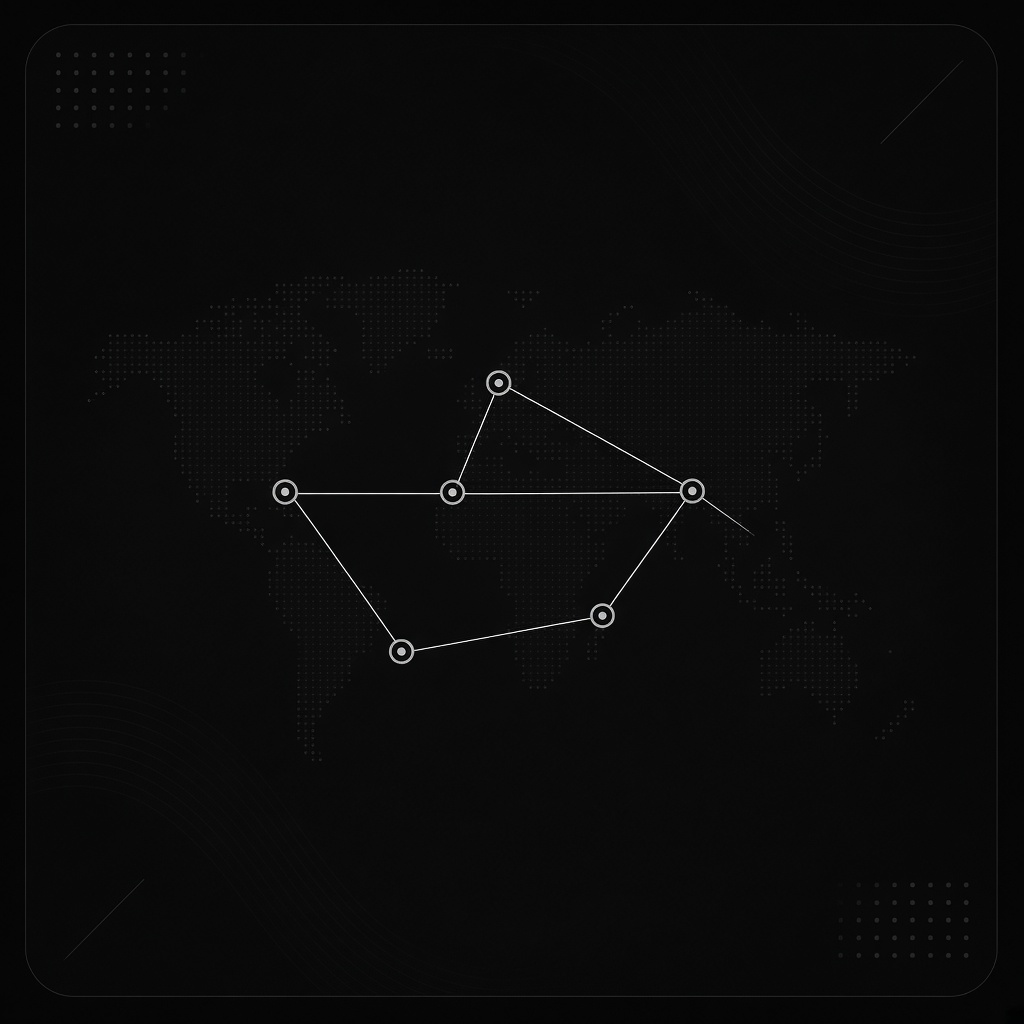
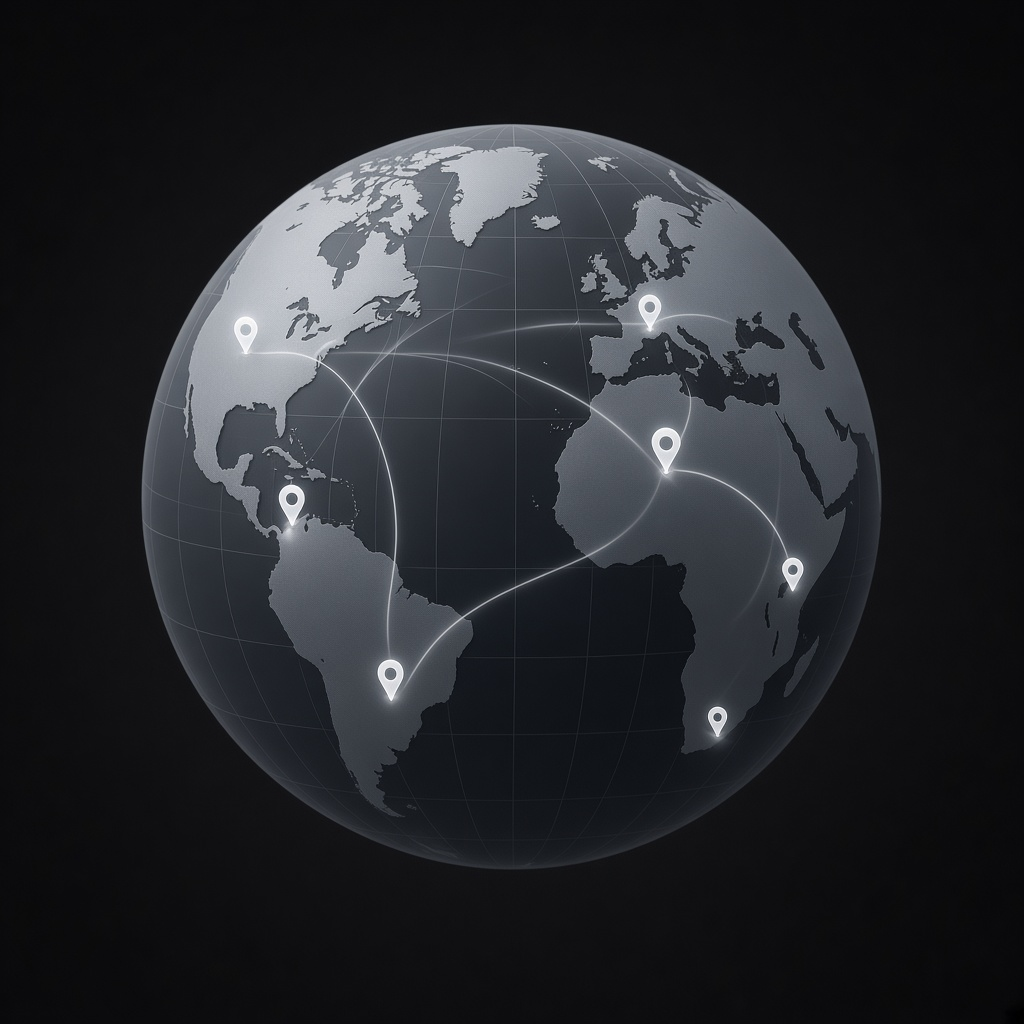
Add Make it yours and Scale chapters to complete the Features jump grid.
Move multi-location focus into Scale with a globe placeholder, and stub the additional-capability tiles for later art.

diff --git a/src/content/pages.ts b/src/content/pages.ts
@@ -217,6 +217,8 @@ export const copy = {
       { label: "Focus on the Drive", href: "#dispatch-chaos" },
       { label: "Orchestrate every journey", href: "#orchestrate-journey" },
       { label: "Premium features", href: "#premium" },
+      { label: "Make it yours", href: "#additional-capabilities" },
+      { label: "Scale with confidence", href: "#scale" },
     ] satisfies FeatureJump[],
     chapters: [
       {
@@ -340,10 +342,59 @@ export const copy = {
             body: "Quality scores that keep the fleet sharp and clients confident.",
             image: "/img/features/driver-ratings.jpg",
           },
+        ],
+      },
+      {
+        id: "additional-capabilities",
+        eyebrow: "Additional capabilities",
+        title: "Make it\nundeniably yours.",
+        items: [
+          {
+            title: "Custom workflows",
+            body: "Screens and job flows shaped to how your fleet actually runs.",
+            image: "/img/features/custom-workflows.jpg",
+          },
+          {
+            title: "Value-add services",
+            body: "Meet & greet, amenities, and VIP extras beyond the transfer.",
+            image: "/img/features/value-add-services.jpg",
+          },
+          {
+            title: "Automations",
+            body: "Triggers and handoffs that cut repetitive ops work.",
+            image: "/img/features/automations.jpg",
+          },
+          {
+            title: "Affiliate integrations",
+            body: "Partners and channels plugged into the same booking stack.",
+            image: "/img/features/affiliate-integrations.jpg",
+          },
+          {
+            title: "AI voice agents",
+            body: "Voice that answers, books, and updates without the queue.",
+            image: "/img/features/ai-voice-agents.jpg",
+          },
+        ],
+      },
+      {
+        id: "scale",
+        eyebrow: "Scale",
+        title: "Scale with\nconfidence.",
+        items: [
           {
             title: "Multiple locations",
-            body: "Run several bases or cities from one connected operation.",
+            body: "Add bases and cities without rebuilding the operation.",
             image: "/img/features/multiple-locations.jpg",
+          },
+          {
+            title: "Expand your reach",
+            body: "Grow into new markets and channels on the same platform.",
+            image: "/img/features/expand-reach.jpg",
+          },
+          {
+            title: "Partners and affiliates",
+            body: "Bring partners and affiliates into the book with shared tooling.",
+            image: "/img/features/partners-affiliates.jpg",
           },
         ],
       },
